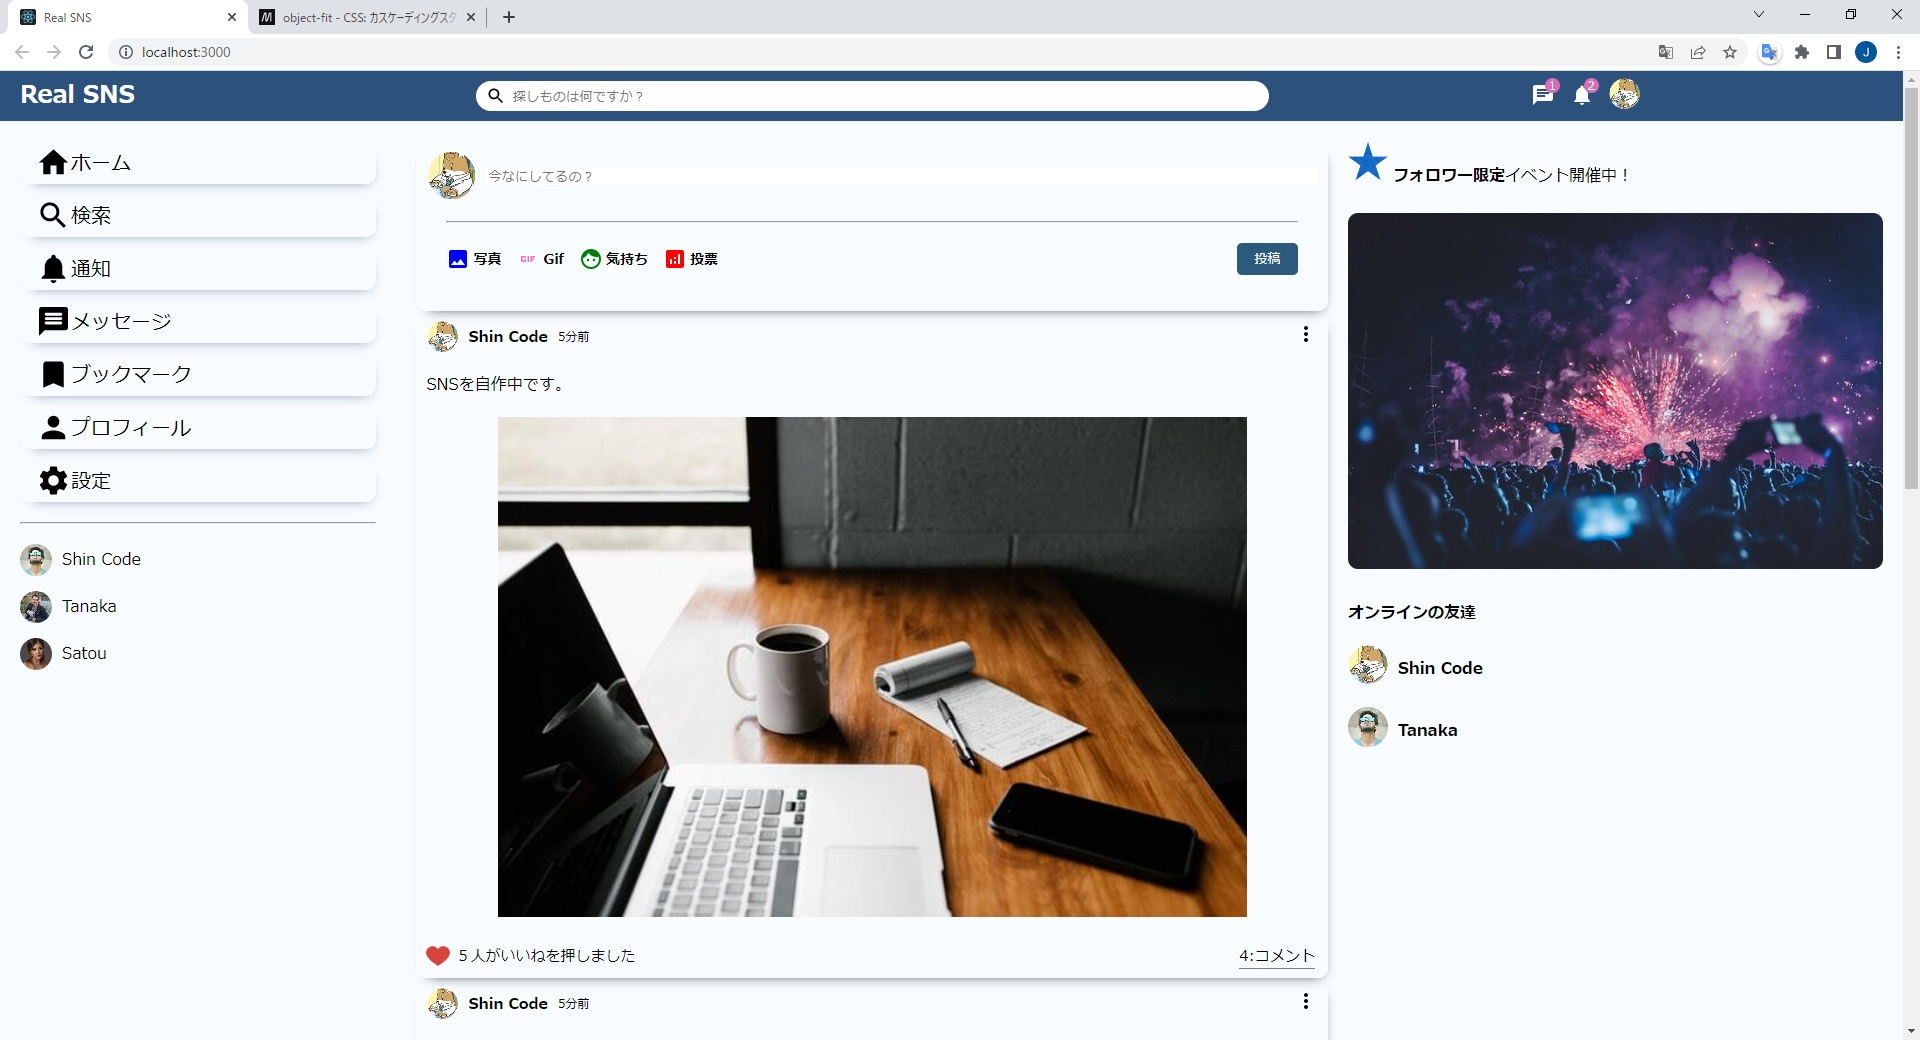
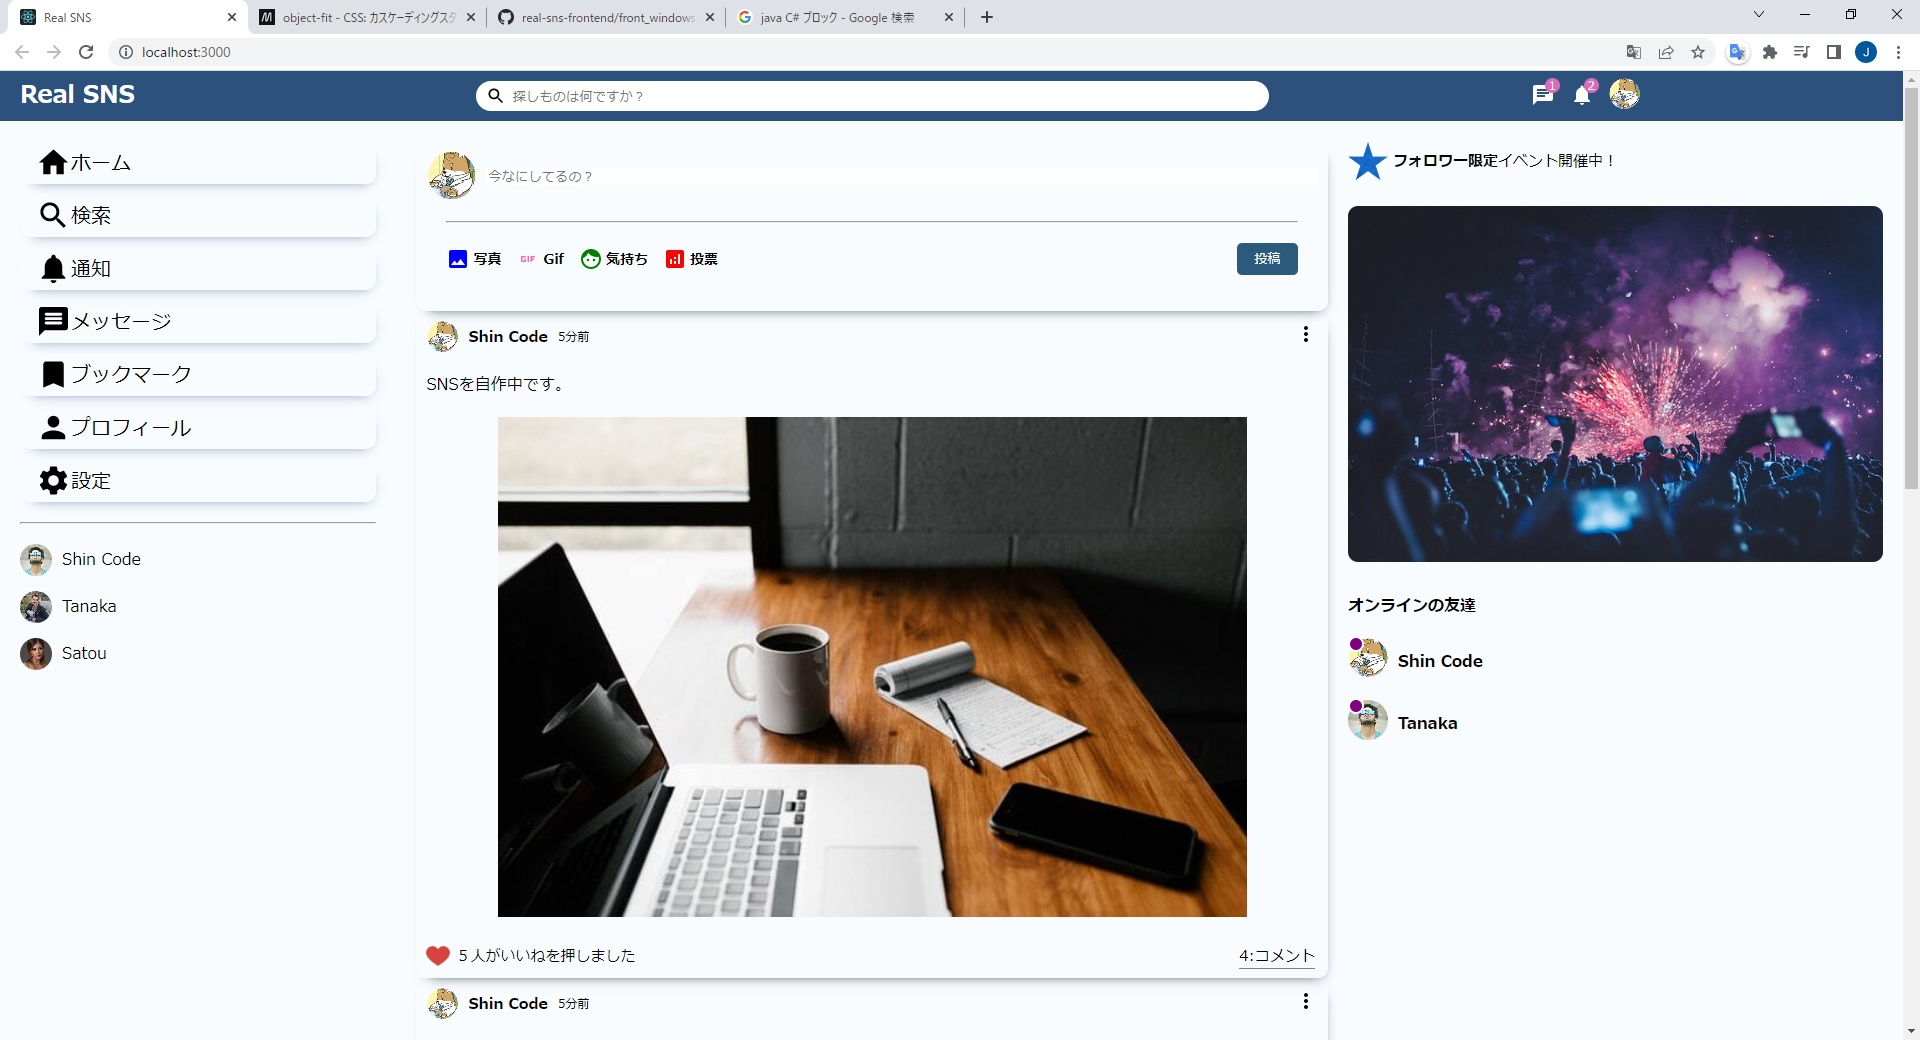
L56. オンラインのマーク　CSS

diff --git a/src/components/rightbar/Rightbar.css b/src/components/rightbar/Rightbar.css
@@ -8,7 +8,7 @@
 
 .eventContainer {
     display: flex;
-    align-items:center;
+    align-items: center;
 }
 
 .starImg{
@@ -17,7 +17,7 @@
     margin-right: 5px;
 }
 
-.eventText {
+.evenText {
     font-weight: 300;
     font-size: 15px;
 }
@@ -60,3 +60,13 @@
     font-weight: 550;
 }
 
+.rightbarOnline {
+    background-color: purple;
+    position: absolute;
+    width: 12px;
+    height: 12px;
+    border-radius: 50%;
+    top: -2px;
+    left: 0;
+    border: 2px solid white;
+}

diff --git a/src/components/rightbar/Rightbar.jsx b/src/components/rightbar/Rightbar.jsx
@@ -5,7 +5,7 @@ export default function Rightbar() {
   return (
     <div className="rightbar">
       <div className="rightbarWrapper">
-        <div className="eventCountainer">
+        <div className="eventContainer">
           <img src="assets/star.png" alt="" className="starImg"/>
           <span className="evenText">
             <b>フォロワー限定</b>イベント開催中！
